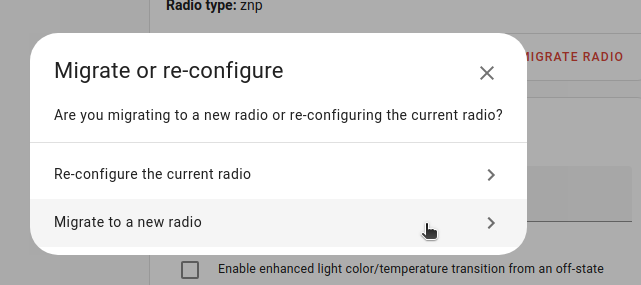
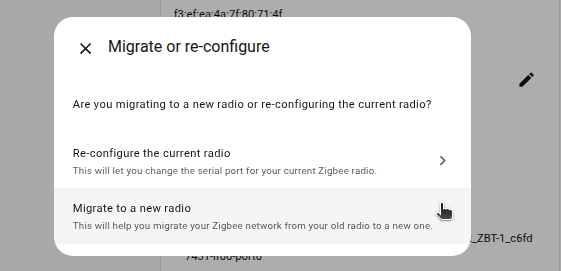
ZBT-1: migrate from ZHA to ZHA: update to refelct current software

diff --git a/_includes/connect-zbt-1/migrate-zha-only.md b/_includes/connect-zbt-1/migrate-zha-only.md
@@ -2,11 +2,11 @@
 
 {% steps %}
 {% step "Starting radio migration" %}
-{% image "/static/img/connect-zbt-1/connect-zbt-1-z2m-migrate-zha-02.png" "Screenshot showing the migrate radio button on the Network settings dialog" %}
+{% image "/static/img/connect-zbt-1/connect-zbt-migrate-radio.png" "Screenshot showing the migrate radio button on the Network settings dialog" %}
 {% stepContent %}
 
-1. Under [**Settings** > **Devices & services**](https://my.home-assistant.io/redirect/integrations/), select the ZHA integration, then select **Configure**.
-2. Under **Network settings** add-on, select **Migrate Radio**.
+1. Under [**Settings** > **Devices & services**](https://my.home-assistant.io/redirect/integrations/), select the ZHA integration, then select the cog wheel.
+2. Under **Network settings** add-on, select **Migrate radio**.
 
 {% endstepContent %}
 {% endstep %}
@@ -15,7 +15,7 @@
 {% image "/static/img/connect-zbt-1/z2m-migrate-zha-03.png" "Screenshot showing the Reconfigure ZHA dialog" %}
 {% stepContent %}
 
-- To reconfigure ZHA, select **Submit**
+- To reconfigure ZHA, select **Submit**.
 
 {% endstepContent %}
 {% endstep %}
@@ -24,7 +24,7 @@
 {% image "/static/img/connect-zbt-1/z2m-migrate-zha-04.png" "Screenshot showing the Migrate or reconfigure dialog" %}
 {% stepContent %}
 
-- Select **Migrate to a new radio**
+- Select **Migrate to a new radio**.
 
 {% endstepContent %}
 {% endstep %}
@@ -42,7 +42,7 @@
 {% image "/static/img/connect-zbt-1/z2m-migrate-zha-06.png" "Screenshot showing the Unplug your old radio dialog" %}
 {% stepContent %}
 
-- If you no longer need the old radio stick, you can now remove it.
+- If you no longer need the old Zigbee adapter, you can now remove it.
 - Before selecting **Submit**, connect Connect&nbsp;ZBT-1, as described in the following steps.
 
 {% endstepContent %}
@@ -80,40 +80,13 @@
 {% endstep %}
 
 {% step "Restoring a backup" %}
-{% image "/static/img/connect-zbt-1/z2m-migrate-zha-08.png" "Screenshot showing the Network formation dialog" %}
+{% image "/static/img/connect-zbt-1/zbt-migrate-automatically.png" "Screenshot showing the Network formation dialog" %}
 {% stepContent %}
 
-- Select **Restore an automatic backup**.
-
-{% endstepContent %}
-{% endstep %}
-
-{% step "Choosing the backup" %}
-{% image "/static/img/connect-zbt-1/z2m-migrate-zha-09.png" "Screenshot showing the Restore automatic backup dialog" %}
-{% stepContent %}
-
-- Choose the latest backup and select **Submit**.
-
-{% endstepContent %}
-{% endstep %}
-
-{% step "Overwriting the radio IEEE address" %}
-{% image "/static/img/connect-zbt-1/z2m-migrate-zha-10.png" "Screenshot showing the Overwriting the radio IEEE address dialog" %}
-{% stepContent %}
-
-- Select the **Permanently replace the radio IEEE address** and select **Submit**.
-- **Info** This means that your old stick and your new stick will have the same IEEE address.
-  - This is required for the migration process to complete successfully.
-  - From this point onwards, you should not operate the old stick in the same area. If you do not migrate the IEEE address from your old stick, you'll have to repair many of your devices to keep them working.
-
-{% endstepContent %}
-{% endstep %}
-
-{% step "Wait" %}
-{% image "/static/img/connect-zbt-1/z2m-migrate-zha-11.png" "Screenshot showing the Overwriting the radio IEEE address dialog with waiting animation" %}
-{% stepContent %}
-
-- Overwriting the IEEE address may take a while. Wait.
+- To use the backup that was created during this migration, select **Migrate automatically (recommended)**.
+  - This is the quickest way to complete the migration.
+- To restore a specific, older backup, select **Advanced migration** instead.
+  - This will let you select a backup of your choice.
 
 {% endstepContent %}
 {% endstep %}
